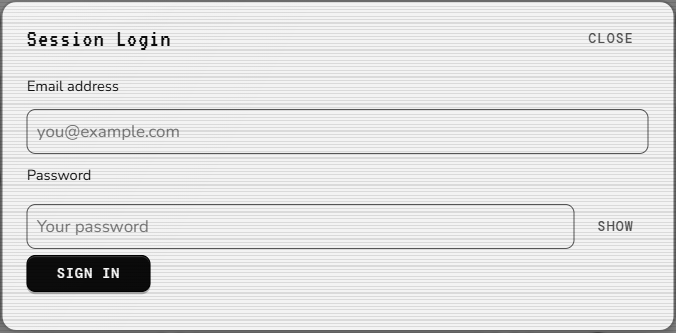
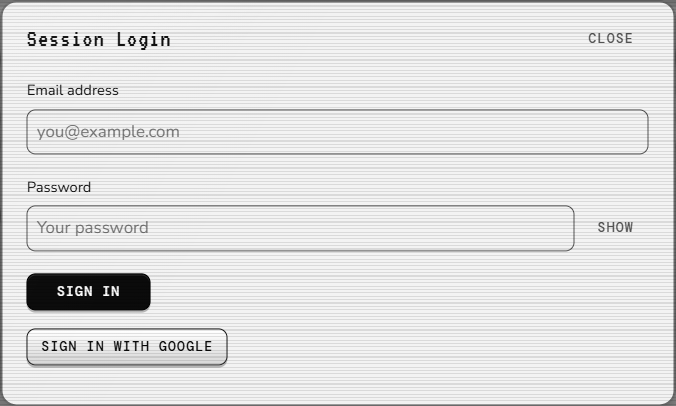
Add account settings and Google sign-in with secure self-deletion

diff --git a/session-tv/public/js/cloud.js b/session-tv/public/js/cloud.js
@@ -2,17 +2,17 @@
 (() => {
  'use strict';
  const config=globalThis.SessionTVConfig||{}, url=(config.supabaseUrl||'').replace(/\/$/,''), key=config.supabasePublishableKey||'';
- const configured=!!(url&&key), AUTH='sessiontv.auth.v1';
+ const configured=!!(url&&key), AUTH='sessiontv.auth.v1', OAUTH='sessiontv.google.pkce.v1', REDIRECT='https://tannermayfield.dev/session-tv/';
  let session=null, refreshTask=null, database=null, opening=null, refreshing=null, signingOut=false;
  const error=message=>dispatchEvent(new CustomEvent('sessiontv:error',{detail:message}));
  const rawStorage=()=>{try{return globalThis.SessionWorkspace?.originalStorage||globalThis.localStorage;}catch{return null;}};
- async function request(route,{method='GET',body,auth=true}={}){
+ async function request(route,{method='GET',body,auth=true,bearer}={}){
   if(!configured)throw new Error('Configure Supabase public credentials to use My Workspace.');
-  if(auth){await refresh();if(!session?.access_token)throw new Error('Sign in to your private workspace first.');}
-  const response=await fetch(url+route,{method,headers:{apikey:key,'Content-Type':'application/json',...(auth?{Authorization:'Bearer '+session.access_token}:{})},body:body===undefined?undefined:JSON.stringify(body),signal:AbortSignal.timeout(20000)});
+  if(auth&&!bearer){await refresh();if(!session?.access_token)throw new Error('Sign in to your private workspace first.');}
+  const response=await fetch(url+route,{method,headers:{apikey:key,'Content-Type':'application/json',...((auth||bearer)?{Authorization:'Bearer '+(bearer||session.access_token)}:{})},body:body===undefined?undefined:JSON.stringify(body),signal:AbortSignal.timeout(20000)});
   const text=await response.text();let data;try{data=text?JSON.parse(text):null}catch{throw new Error('Supabase returned an invalid response.');}
   if(!response.ok){
-   throw new Error(data?.msg||data?.message||data?.error_description||data?.error||'Cloud request failed ('+response.status+').');
+   throw Object.assign(new Error(data?.msg||data?.message||data?.error_description||data?.error||'Cloud request failed ('+response.status+').'),{status:response.status,code:data?.error_code||data?.code});
   }
   return data;
  }
@@ -30,18 +30,52 @@
   if(!refreshing)refreshing=request('/auth/v1/token?grant_type=refresh_token',{method:'POST',auth:false,body:{refresh_token:session.refresh_token}}).then(saveSession).finally(()=>refreshing=null);
   await refreshing;
  }
- async function activate(value){
+ async function activate(value,expectedId){
   const previous=session;
   session={...value,expires_at:Number(value.expires_at)||Math.floor(Date.now()/1000)+Number(value.expires_in||3600)};
   try{
-   const user=await request('/auth/v1/user');if(!user?.id)throw new Error('Account verification failed.');
+   const user=await request('/auth/v1/user');if(!user?.id||(expectedId&&user.id!==expectedId))throw new Error('Account verification failed.');
    saveSession({...session,user});globalThis.SessionWorkspace?.setPrivate?.(user.id);return user;
   }catch(e){session=previous;throw e;}
+ }
+ function oauthStorage(){try{if(!globalThis.sessionStorage)throw new Error();return globalThis.sessionStorage;}catch{throw new Error('Enable browser session storage to continue with Google.');}}
+ const base64=bytes=>btoa(String.fromCharCode(...bytes)).replace(/\+/g,'-').replace(/\//g,'_').replace(/=+$/,'');
+ async function google(link=false){
+  await ready;if(!configured)throw new Error('Configure Supabase public credentials first.');
+  if(globalThis.location?.origin!==new URL(REDIRECT).origin)throw new Error('Open SessionTV at '+REDIRECT+' to continue with Google.');
+  if(link&&!session?.user)throw new Error('Sign in before linking Google.');
+  const settings=await request('/auth/v1/settings',{auth:false});
+  if(settings?.external?.google===false)throw new Error('Google sign-in is not enabled yet. Enable Google in Supabase Authentication before continuing.');
+  const verifier=base64(crypto.getRandomValues(new Uint8Array(32))),challenge=base64(new Uint8Array(await crypto.subtle.digest('SHA-256',new TextEncoder().encode(verifier))));
+  const pending={verifier,created:Date.now(),userId:link?session.user.id:null};oauthStorage().setItem(OAUTH,JSON.stringify(pending));
+  const query=new URLSearchParams({provider:'google',redirect_to:REDIRECT,code_challenge:challenge,code_challenge_method:'s256'});
+  try{
+   let target=url+'/auth/v1/authorize?'+query;
+   if(link){query.set('skip_http_redirect','true');const result=await request('/auth/v1/user/identities/authorize?'+query);target=result?.url;}
+   const destination=new URL(target);if(destination.protocol!=='https:'||(link&&!['accounts.google.com',new URL(url).hostname].includes(destination.hostname))||(!link&&destination.origin!==new URL(url).origin))throw new Error('Google returned an invalid sign-in destination.');
+   location.assign(destination.href);return {redirecting:true};
+  }catch(e){oauthStorage().removeItem(OAUTH);throw e;}
+ }
+ async function callback(){
+  if(!globalThis.location?.href)return false;
+  const current=new URL(location.href);const code=current.searchParams.get('code'),failed=current.searchParams.has('error');
+  if(!code&&!failed)return false;
+  let pending;try{pending=JSON.parse(oauthStorage().getItem(OAUTH)||'null');}finally{
+   oauthStorage().removeItem(OAUTH);for(const name of ['code','error','error_code','error_description','sb_flow_id'])current.searchParams.delete(name);
+   globalThis.history?.replaceState?.(null,'',current.pathname+current.search+current.hash);
+  }
+  if(current.origin!==new URL(REDIRECT).origin||current.pathname!==new URL(REDIRECT).pathname||!pending||Date.now()-pending.created>10*60000||pending.created>Date.now()||typeof pending.verifier!=='string'||!/^[A-Za-z0-9_-]{43}$/.test(pending.verifier))throw new Error('Google sign-in expired or was opened in another browser. Please try again.');
+  if(failed)throw new Error('Google sign-in was canceled or could not be completed.');
+  const value=await request('/auth/v1/token?grant_type=pkce',{method:'POST',auth:false,body:{auth_code:code,code_verifier:pending.verifier}});
+  if(pending.userId&&session?.user?.id!==pending.userId)throw new Error('Sign in to the original account before linking Google.');
+  await activate(value,pending.userId);return true;
  }
  const ready=(async()=>{
   if(!configured)return;
   try{
-   const saved=rawStorage()?.getItem(AUTH);if(saved){session=JSON.parse(saved);await refresh();await activate(session);}
+   const saved=rawStorage()?.getItem(AUTH);if(saved)session=JSON.parse(saved);
+   try{if(await callback())return;}catch(e){error(e.message);}
+   if(session){await refresh();await activate(session);}
   }catch(e){saveSession(null);error('Sign in again: '+e.message);}
  })();
  const rpc=(name,args={})=>request('/rest/v1/rpc/'+name,{method:'POST',body:args});
@@ -94,6 +128,41 @@
    const value=await request('/auth/v1/token?grant_type=password',{method:'POST',auth:false,body:{email:identifier,password}});
    // Persist only session tokens; never store the submitted password.
    await activate(value);location.reload();
+  },
+  signInWithGoogle(){return google(false);},
+  linkGoogle(){return google(true);},
+  async accountInfo(){await ready;const user=await request('/auth/v1/user');if(!user?.id||user.id!==session?.user?.id)throw new Error('Account verification failed. Sign in again.');saveSession({...session,user});return user;},
+  async changePassword(currentPassword,newPassword){
+   await ready;
+   if(typeof newPassword!=='string'||newPassword.length<8||newPassword.length>1024)throw new Error('Use a new password with at least 8 characters.');
+   if(currentPassword===newPassword)throw new Error('Choose a different new password.');
+   const user=await this.accountInfo();if(!user.email)throw new Error('This account does not have an email/password login.');
+   const passwordAccount=user.identities?.some(identity=>identity.provider==='email')!==false;
+   if(!currentPassword&&!passwordAccount){
+    const recent=Date.parse(user.last_sign_in_at||'');
+    if(!Number.isFinite(recent)||Date.now()-recent>10*60000)throw new Error('Sign out and continue with Google again before setting a password.');
+    try{const updated=await request('/auth/v1/user',{method:'PUT',body:{password:newPassword}});if(updated?.id!==user.id)throw new Error('Account verification failed.');saveSession({...session,user:updated});return {changed:true};}
+    catch(e){if(/nonce|reauthenticat/i.test(e.message))throw new Error('Sign out, continue with Google again, then retry setting a password.');throw e;}
+   }
+   if(typeof currentPassword!=='string'||!currentPassword||currentPassword.length>1024)throw new Error('Enter your current password.');
+   const verified=await request('/auth/v1/token?grant_type=password',{method:'POST',auth:false,body:{email:user.email,password:currentPassword}});
+   if(typeof verified.access_token!=='string'||!verified.access_token)throw new Error('Password verification failed.');
+   let changed;
+   try{
+    const checked=await request('/auth/v1/user',{bearer:verified.access_token});
+    if(checked?.id!==user.id)throw new Error('Password verification did not match your signed-in account.');
+    // Update on the active session: Supabase retains this session when revoking other sessions.
+    changed=await request('/auth/v1/user',{method:'PUT',body:{password:newPassword,current_password:currentPassword}});
+    if(changed?.id!==user.id)throw new Error('Account verification failed. Sign in again.');
+    saveSession({...session,user:changed});return {changed:true};
+   }catch(e){if(e.code==='reauthentication_needed'||e.code==='reauthentication_not_valid'||/nonce|reauthenticat/i.test(e.message))throw new Error('Your account requires email verification for password changes. Sign out, sign in again, then retry from Account settings.');throw e;}
+   finally{if(verified.access_token)await request('/auth/v1/logout?scope=local',{method:'POST',bearer:verified.access_token}).catch(()=>{});}
+  },
+  async deleteAccount(confirmationEmail){
+   await ready;const user=await this.accountInfo();
+   if(typeof confirmationEmail!=='string'||confirmationEmail.trim().toLowerCase()!==user.email?.trim().toLowerCase())throw new Error('Type your account email to confirm permanent deletion.');
+   await database?.flush();await request('/functions/v1/account-delete',{method:'POST',body:{confirmationEmail:confirmationEmail.trim()}});
+   signingOut=true;database?.unsubscribe?.();if(database)clearInterval(database.timer);saveSession(null);try{oauthStorage().removeItem(OAUTH);}catch{}globalThis.SessionWorkspace?.clearPrivate?.();location.reload();return {deleted:true};
   },
   async signOut(){await ready;signingOut=true;database?.unsubscribe?.();if(database)clearInterval(database.timer);try{await database?.flush();if(session)await request('/auth/v1/logout',{method:'POST'});}finally{saveSession(null);globalThis.SessionWorkspace?.clearPrivate?.();location.reload();}},
   async exportBackup(){const db=await open();await db.flush();const snap=await rpc('sessiontv_snapshot');return {format:'session-tv-backup',version:1,createdAt:new Date().toISOString(),values:{[SessionStore.KEY]:JSON.stringify(snap.database),...snap.preferences}};},

diff --git a/session-tv/public/js/local.js b/session-tv/public/js/local.js
@@ -5,7 +5,7 @@
  toast=message=>{const el=$('toast');el.textContent=message;el.hidden=false;clearTimeout(noticeTimer);noticeTimer=setTimeout(()=>el.hidden=true,6500)};
  addEventListener('sessiontv:error',event=>toast(event.detail));
  const baseSettings=renderSettings;
- renderSettings=function(){baseSettings();if(TV.dbView)return;$('local-open').onclick=async()=>{if(SessionWorkspace.mode==='private'){try{await SessionCloud.signOut()}catch(error){toast(error.message)}}else openLocalSetup()};$('session-preferences-open').onclick=()=>openLocalSetup('preferences');$('preferences-open').onclick=openPreferences};
+ renderSettings=function(){baseSettings();if(TV.dbView)return;$('local-open').onclick=async()=>{if(SessionWorkspace.mode==='private'){try{await SessionCloud.signOut()}catch(error){toast(error.message)}}else openLocalSetup()};if($('account-settings-open'))$('account-settings-open').onclick=()=>SessionAccount.open();$('session-preferences-open').onclick=()=>openLocalSetup('preferences');$('preferences-open').onclick=openPreferences};
  const dialog=document.createElement('dialog');dialog.id='local-setup';dialog.className='confirm-dlg';dialog.setAttribute('aria-labelledby','local-heading');
  dialog.innerHTML=`<div class="local-panel"><div class="row spread"><h2 id="local-heading">Session Login</h2><button class="btn ghost" id="local-close" autofocus>Close</button></div>
  <p id="workspace-status" class="small"></p>
@@ -13,7 +13,7 @@
  <label for="workspace-email" id="workspace-identifier-label">Email address</label><input id="workspace-email" name="email" type="email" required autocomplete="email" autocapitalize="none" spellcheck="false" placeholder="you@example.com">
  <label for="workspace-password">Password</label><div class="password-field"><input id="workspace-password" name="password" type="password" required autocomplete="current-password" placeholder="Your password"><button class="btn ghost" id="workspace-show-password" type="button" aria-controls="workspace-password" aria-pressed="false">Show</button></div>
  <div class="local-actions"><button class="btn primary" id="workspace-signin" type="submit">Sign In</button></div>
-</form></section>
+<button class="btn" id="workspace-google" type="button">Sign in with Google</button></form></section>
  <button class="btn" id="workspace-signout" hidden>Sign out</button>
  <section id="session-preferences-section" hidden><nav class="session-preference-tabs" role="tablist" aria-label="Session preferences"><button class="btn" role="tab" id="pref-tab-sections" aria-controls="session-sections" data-session-tab="session-sections">Sections</button><button class="btn" role="tab" id="pref-tab-voices" aria-controls="session-voices" data-session-tab="session-voices">Voices</button><button class="btn" role="tab" id="pref-tab-music" aria-controls="session-music" data-session-tab="session-music">Apple Music</button><button class="btn" role="tab" id="pref-tab-ai" aria-controls="session-ai" data-session-tab="session-ai">AI Connection</button></nav><div id="session-sections" role="tabpanel" aria-labelledby="pref-tab-sections"></div><div id="session-voices" role="tabpanel" aria-labelledby="pref-tab-voices" hidden></div><div id="session-music" role="tabpanel" aria-labelledby="pref-tab-music" hidden></div><div id="session-ai" role="tabpanel" aria-labelledby="pref-tab-ai" hidden><details id="ai-connections"><summary>Codex connection</summary><p class="small muted" id="local-ai-status" hidden></p>
  <h3>Codex & Local AI Companion</h3><p class="small muted" id="companion-status">Computer disconnected</p>
@@ -36,6 +36,7 @@
  function fail(error){$('local-message').textContent=error.message}
  $('workspace-show-password').onclick=()=>{const input=$('workspace-password'),visible=input.type==='password';input.type=visible?'text':'password';$('workspace-show-password').textContent=visible?'Hide':'Show';$('workspace-show-password').setAttribute('aria-pressed',String(visible))};
  $('workspace-login').onsubmit=async e=>{e.preventDefault();const button=$('workspace-signin');button.disabled=true;button.textContent='Signing in...';$('local-message').textContent='';try{await SessionCloud.signInWithPassword($('workspace-email').value,$('workspace-password').value)}catch(error){fail(error)}finally{$('workspace-password').value='';button.disabled=false;button.textContent='Sign In'}};
+ $('workspace-google').onclick=async()=>{try{await SessionCloud.signInWithGoogle()}catch(error){fail(error)}};
  $('workspace-signout').onclick=async()=>{try{await SessionCloud.signOut()}catch(error){fail(error)}};
  $('local-close').onclick=()=>dialog.close(); async function status(){const value=await SessionCompanion.status();$('companion-status').textContent=value.error||(!value.connected?'Computer disconnected':value.busy?'Codex is working':value.signedIn?'Computer connected · Codex ready':'Computer connected · Sign in to Codex');const list=value.workspaces||[];$('companion-workspace').replaceChildren(...list.map(w=>{const o=document.createElement('option');o.value=typeof w==='string'?w:w.id||w.path;o.textContent=typeof w==='string'?w:w.name||w.path||w.id;return o}));return value}
  $('companion-pair').onclick=async()=>{try{await SessionCompanion.pair($('companion-code').value);$('companion-code').value='';await status()}catch(error){fail(error)}};

diff --git a/session-tv/public/js/account.js b/session-tv/public/js/account.js
@@ -1,0 +1,14 @@
+/* Account actions are available only to the authenticated workspace. */
+(()=>{
+ const dialog=document.createElement('dialog');dialog.id='account-settings';dialog.className='confirm-dlg';dialog.setAttribute('aria-labelledby','account-heading');
+ dialog.innerHTML=`<div class="local-panel"><header class="row spread"><h2 id="account-heading">Account Settings</h2><button class="btn ghost" data-close>Close</button></header><p id="account-email"></p><section><h3>Google sign-in</h3><p id="account-google-state"></p><button class="btn" id="account-google">Link Google account</button></section><section><h3>Change password</h3><form id="account-password"><label for="account-current">Current password</label><input id="account-current" type="password" autocomplete="current-password"><label for="account-new">New password</label><input id="account-new" type="password" autocomplete="new-password" minlength="8" required><label for="account-repeat">Confirm new password</label><input id="account-repeat" type="password" autocomplete="new-password" minlength="8" required><button class="btn" type="submit">Save password</button></form></section><section><h3>Delete account permanently</h3><p>Your SessionTV account and private workspace data will be permanently deleted. This cannot be undone. Files on your computer are not deleted.</p><form id="account-delete"><label for="account-delete-email">Type your email address to confirm</label><input id="account-delete-email" type="email" autocomplete="off" required><button class="btn danger" type="submit">Permanently delete account</button></form></section><p id="account-message" role="status"></p></div>`;
+ document.body.append(dialog);let activeEmail='',generation=0;
+ const message=text=>{document.getElementById('account-message').textContent=text};
+ const clear=()=>{generation++;for(const input of dialog.querySelectorAll('input'))input.value='';activeEmail='';dialog.close()};
+ dialog.querySelector('[data-close]').onclick=()=>dialog.close();dialog.addEventListener('close',()=>{for(const input of dialog.querySelectorAll('input'))input.value=''});addEventListener('sessiontv:auth',clear);
+ async function action(run){if(SessionWorkspace.mode!=='private'||!SessionCloud.user)return;const epoch=generation;const controls=dialog.querySelectorAll('button');controls.forEach(b=>b.disabled=true);message('');try{const result=await run();if(epoch===generation)message(result||'Saved.')}catch(error){if(epoch===generation)message(error.message)}finally{controls.forEach(b=>b.disabled=false)}}
+ document.getElementById('account-google').onclick=()=>action(()=>SessionCloud.linkGoogle());
+ document.getElementById('account-password').onsubmit=e=>{e.preventDefault();action(async()=>{const current=document.getElementById('account-current'),next=document.getElementById('account-new'),repeat=document.getElementById('account-repeat');if(next.value!==repeat.value)throw Error('The new passwords do not match.');await SessionCloud.changePassword(current.value,next.value);current.value=next.value=repeat.value='';return 'Password updated.'})};
+ document.getElementById('account-delete').onsubmit=e=>{e.preventDefault();action(async()=>{const confirmation=document.getElementById('account-delete-email').value.trim();if(confirmation.toLowerCase()!==activeEmail.toLowerCase())throw Error('Type your account email address to confirm deletion.');await SessionCloud.deleteAccount(confirmation)})};
+ globalThis.SessionAccount={async open(){if(SessionWorkspace.mode!=='private'||!SessionCloud.user)return;const epoch=++generation;message('Loading account…');if(!dialog.open)dialog.showModal();try{const user=await SessionCloud.accountInfo();if(epoch!==generation||SessionWorkspace.mode!=='private')return;activeEmail=user.email||'';document.getElementById('account-email').textContent=activeEmail;const linked=user.identities?.some(identity=>identity.provider==='google');document.getElementById('account-google-state').textContent=linked?'Google account linked':'Google account not linked';document.getElementById('account-google').hidden=!!linked;document.getElementById('account-current').required=!!user.identities?.some(identity=>identity.provider==='email');message('')}catch(error){message(error.message)}}};
+})();

diff --git a/session-tv/supabase/functions/account-delete/index.ts b/session-tv/supabase/functions/account-delete/index.ts
@@ -1,0 +1,37 @@
+// All privileged credentials stay in the Supabase Edge runtime, never the site bundle.
+Deno.serve(async request => {
+ const allowed = new Set(['https://tannermayfield.dev', ...(Deno.env.get('SESSIONTV_ALLOWED_ORIGINS') || '').split(',').map(value => value.trim()).filter(Boolean)]);
+ const origin = request.headers.get('origin');
+ const headers = { 'Content-Type': 'application/json', 'Cache-Control': 'no-store', 'Vary': 'Origin', ...(origin && allowed.has(origin) ? { 'Access-Control-Allow-Origin': origin, 'Access-Control-Allow-Headers': 'authorization, apikey, content-type, x-client-info', 'Access-Control-Allow-Methods': 'POST, OPTIONS' } : {}) };
+ const reply = (status, message) => new Response(JSON.stringify(typeof message === 'string' ? { message } : message), { status, headers });
+ if (origin && !allowed.has(origin)) return reply(403, 'This origin is not allowed.');
+ if (request.method === 'OPTIONS') return new Response(null, { status: 204, headers });
+ if (request.method !== 'POST') return reply(405, 'Use POST.');
+ const endpoint = Deno.env.get('SUPABASE_URL');
+ const publicKey = Deno.env.get('SUPABASE_ANON_KEY') || Deno.env.get('SUPABASE_PUBLISHABLE_KEY');
+ const serviceKey = Deno.env.get('SUPABASE_SERVICE_ROLE_KEY');
+ if (!endpoint || !publicKey || !serviceKey) return reply(503, 'Account deletion is not configured.');
+ const authorization = request.headers.get('authorization');
+ if (!authorization || !/^Bearer [^\s]+$/i.test(authorization)) return reply(401, 'Sign in before deleting your account.');
+ try {
+  const userResponse = await fetch(endpoint + '/auth/v1/user', { headers: { apikey: publicKey, Authorization: authorization }, signal: AbortSignal.timeout(15000) });
+  if (!userResponse.ok) return reply(401, 'Your sign-in could not be verified. Sign in again.');
+  const user = await userResponse.json();
+  if (typeof user.id !== 'string' || !/^[\da-f]{8}-[\da-f]{4}-[\da-f]{4}-[\da-f]{4}-[\da-f]{12}$/i.test(user.id) || !user.email) return reply(401, 'Your account could not be verified.');
+  const signedIn = Date.parse(user.last_sign_in_at || '');
+  if (!Number.isFinite(signedIn) || Date.now() - signedIn > 10 * 60000 || signedIn > Date.now() + 60000) return reply(403, 'Sign out and sign in again before permanently deleting your account.');
+  if (Number(request.headers.get('content-length')) > 2048) return reply(413, 'Request is too large.');
+  let text = '', size = 0; const decoder = new TextDecoder();
+  if (request.body) for await (const chunk of request.body) { size += chunk.length; if (size > 2048) return reply(413, 'Request is too large.'); text += decoder.decode(chunk, { stream: true }); }
+  text += decoder.decode();
+  let body; try { body = JSON.parse(text); } catch { return reply(400, 'Confirm your account email.'); }
+  if (!body || Object.keys(body).some(key => key !== 'confirmationEmail') || typeof body.confirmationEmail !== 'string' || body.confirmationEmail.trim().toLowerCase() !== user.email.trim().toLowerCase()) return reply(400, 'Type your account email to confirm permanent deletion.');
+  // Revoke renewable sessions before hard deletion. Existing JWTs expire normally;
+  // requests requiring a live account (including this function) verify getUser.
+  const revoked = await fetch(endpoint + '/auth/v1/logout?scope=global', { method: 'POST', headers: { apikey: serviceKey, Authorization: authorization }, signal: AbortSignal.timeout(15000) });
+  if (!revoked.ok) return reply(503, 'Could not revoke your sessions. Your account was not deleted. Try again.');
+  const deleted = await fetch(endpoint + '/auth/v1/admin/users/' + encodeURIComponent(user.id), { method: 'DELETE', headers: { apikey: serviceKey, Authorization: 'Bearer ' + serviceKey, 'Content-Type': 'application/json' }, body: JSON.stringify({ should_soft_delete: false }), signal: AbortSignal.timeout(15000) });
+  if (!deleted.ok) return reply(503, 'Your account could not be deleted. Sign in again and retry.');
+  return reply(200, { deleted: true });
+ } catch { return reply(503, 'Account deletion is temporarily unavailable. Please try again.'); }
+});

diff --git a/session-tv/public/local.css b/session-tv/public/local.css
@@ -75,3 +75,5 @@ body.tv-home-active #view-log{visibility:hidden;pointer-events:none}#tv-home .gd
 #tv-settings #session-exit,#tv-settings .resume-placeholder{background:#fff!important;color:#171717!important;text-shadow:none!important;opacity:1}#tv-settings .resume-placeholder span,#tv-settings .resume-placeholder small{color:#171717}#tv-settings .sheet-head #set-x.btn{height:auto}
 
 .project-chat-heading{flex-wrap:wrap;align-items:center}.project-model-controls{display:flex;align-items:center;justify-content:flex-end;gap:10px;flex-wrap:wrap}.project-model-controls select{width:auto;max-width:180px;padding:5px 8px;background:var(--modal);color:var(--ink);border:1px solid var(--line);border-radius:6px;font:inherit}.project-model-warning{flex-basis:100%;color:var(--muted)}
+
+#workspace-login{display:flex;flex-direction:column;gap:0;margin-top:20px}#workspace-login>label{margin:0 0 6px}#workspace-login>input,#workspace-login>.password-field{margin:0 0 20px}#workspace-login .password-field input{margin:0}#workspace-login .local-actions{margin:0 0 16px}#workspace-google{align-self:flex-start}#account-settings{padding:0;width:min(600px,calc(var(--crt-w,100vw) - 32px))}#account-settings section{margin-top:22px;padding-top:16px;border-top:1px solid var(--line)}#account-settings label{margin:12px 0 6px}#account-settings input{margin:0 0 16px;background:var(--modal);color:var(--ink)}#account-settings .danger{border-color:#b54135;color:#b54135}#account-settings .local-panel{box-sizing:border-box}

diff --git a/session-tv/public/js/artifact/06.js b/session-tv/public/js/artifact/06.js
@@ -19,7 +19,7 @@ function renderSettings(){
   const exp=pj.filter(t=>t.status==='done').length;
   const stat=(n,l,v)=>`<button type="button" class="db-stat" data-db="${v}" title="Open ${l}"><b>${n}</b><span>${l}</span></button>`;
   $('set-body').innerHTML=`<div class="set-grid">
-    <div class="set-card"><h3>Session Login</h3><div class="row"><button class="btn" id="local-open">${SessionWorkspace.mode==='private'?'Logout':'Login to Session'}</button></div></div>
+    <div class="set-card"><h3>Session Login</h3><div class="row">${SessionWorkspace.mode==='private'?'<button class="btn" id="account-settings-open">Account Settings</button>':''}<button class="btn" id="local-open">${SessionWorkspace.mode==='private'?'Logout':'Login to Session'}</button></div></div>
     <div class="set-card"><h3>Appearance</h3><div class="row"><button class="btn" id="preferences-open">Open appearance</button></div></div>
     <div class="set-card"><h3>Exit SessionTV</h3><div class="row"><a class="btn" id="session-exit" href="https://tannermayfield.dev/#projects">Return to portfolio</a></div></div>
     <div class="set-card session-preferences-card"><h3>Session Preferences</h3><div class="row"><button class="btn" id="session-preferences-open" ${SessionWorkspace.mode==='private'?'':'disabled'}>Open preferences</button></div></div>

diff --git a/session-tv/public/js/boot.js b/session-tv/public/js/boot.js
@@ -5,7 +5,7 @@ const sessionTVAssetVersion = document.currentScript ? new URL(document.currentS
  try {
   await window.SessionCloud?.ready;
   if(window.SessionCloud?.user)await SessionCloud.open();
-  const scripts=Array.from({length:17},(_,i)=>'artifact/'+String(i+1).padStart(2,'0')+'.js').concat('local.js','project-chats.js','add-forms.js','home.js','session-preferences.js','chatgpt.js','speech.js','music.js','preview.js');
+  const scripts=Array.from({length:17},(_,i)=>'artifact/'+String(i+1).padStart(2,'0')+'.js').concat('local.js','account.js','project-chats.js','add-forms.js','home.js','session-preferences.js','chatgpt.js','speech.js','music.js','preview.js');
   for(const name of scripts)await new Promise((resolve,reject)=>{const s=document.createElement('script');s.src='js/'+name+sessionTVAssetVersion;s.onload=resolve;s.onerror=()=>reject(Error('Could not load '+name));document.body.appendChild(s)});
  } catch(error) {
   const box=document.createElement('div');box.className='workspace-error';box.textContent='Workspace could not load: '+error.message+' Reload to retry. Your saved data has not been replaced.';document.body.appendChild(box);

diff --git a/session-tv/docs/GOOGLE-ACCOUNT.md b/session-tv/docs/GOOGLE-ACCOUNT.md
@@ -1,0 +1,12 @@
+# Google sign-in setup
+
+The website supports email/password and Google through the same Supabase account. Existing users should link Google from Account Settings to preserve their workspace.
+
+1. In Google Cloud Console, select or create a project. Open Google Auth Platform and configure Branding and Audience. Add your own Google account as a test user if the app is in testing.
+2. Create a Web application OAuth client under Clients. Add `https://tghzpzecxwerhwxoljkd.supabase.co/auth/v1/callback` as an authorized redirect URI.
+3. In Supabase → Authentication → Sign In / Providers → Google, enable Google and save that client ID and client secret. Keep the secret in Supabase, never in website code.
+4. In Authentication → URL Configuration, set the Site URL and add the redirect URL `https://tannermayfield.dev/session-tv/`.
+5. In Authentication settings, enable Manual identity linking for the Account Settings → Link Google account action.
+6. Refresh SessionTV. Sign into your existing account, open Account Settings, and link Google. Then test signing out and using Sign in with Google.
+
+Permanent deletion uses the account-delete Edge Function. It validates the caller with Supabase Auth and deletes only that caller after typed confirmation. The private stv tables cascade from auth.users; files in computer folders are unaffected. No live account is deleted during deployment or testing.
